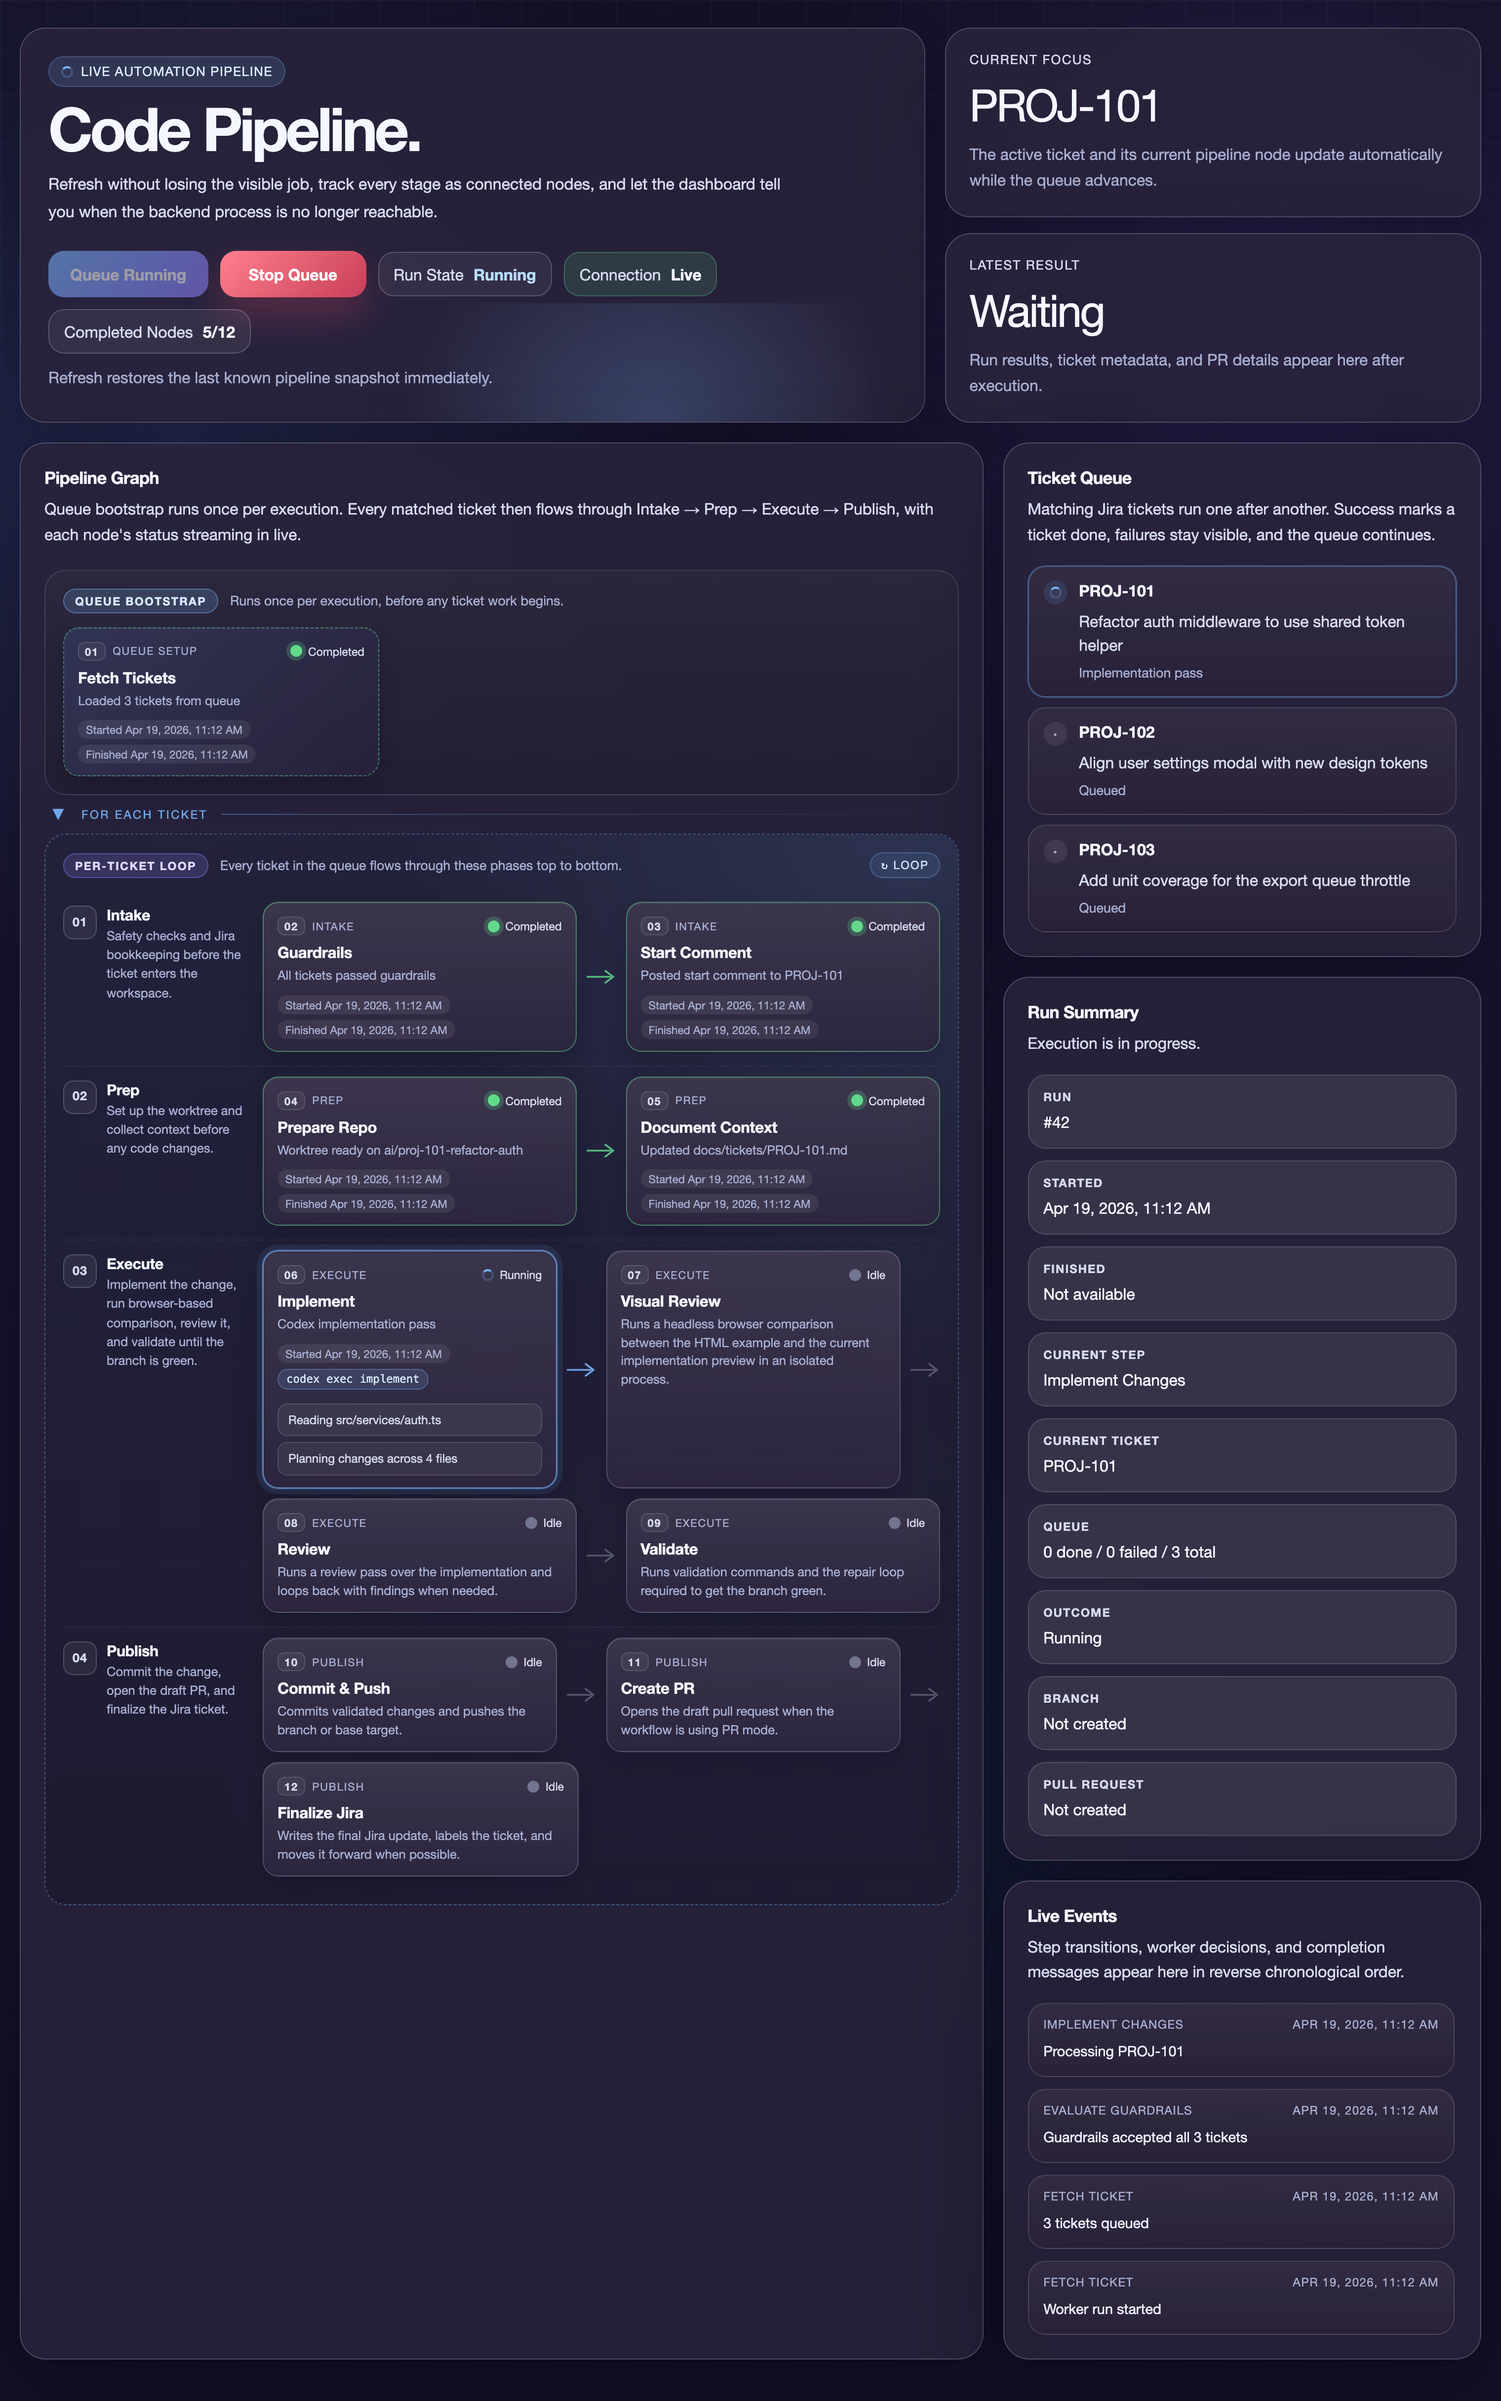
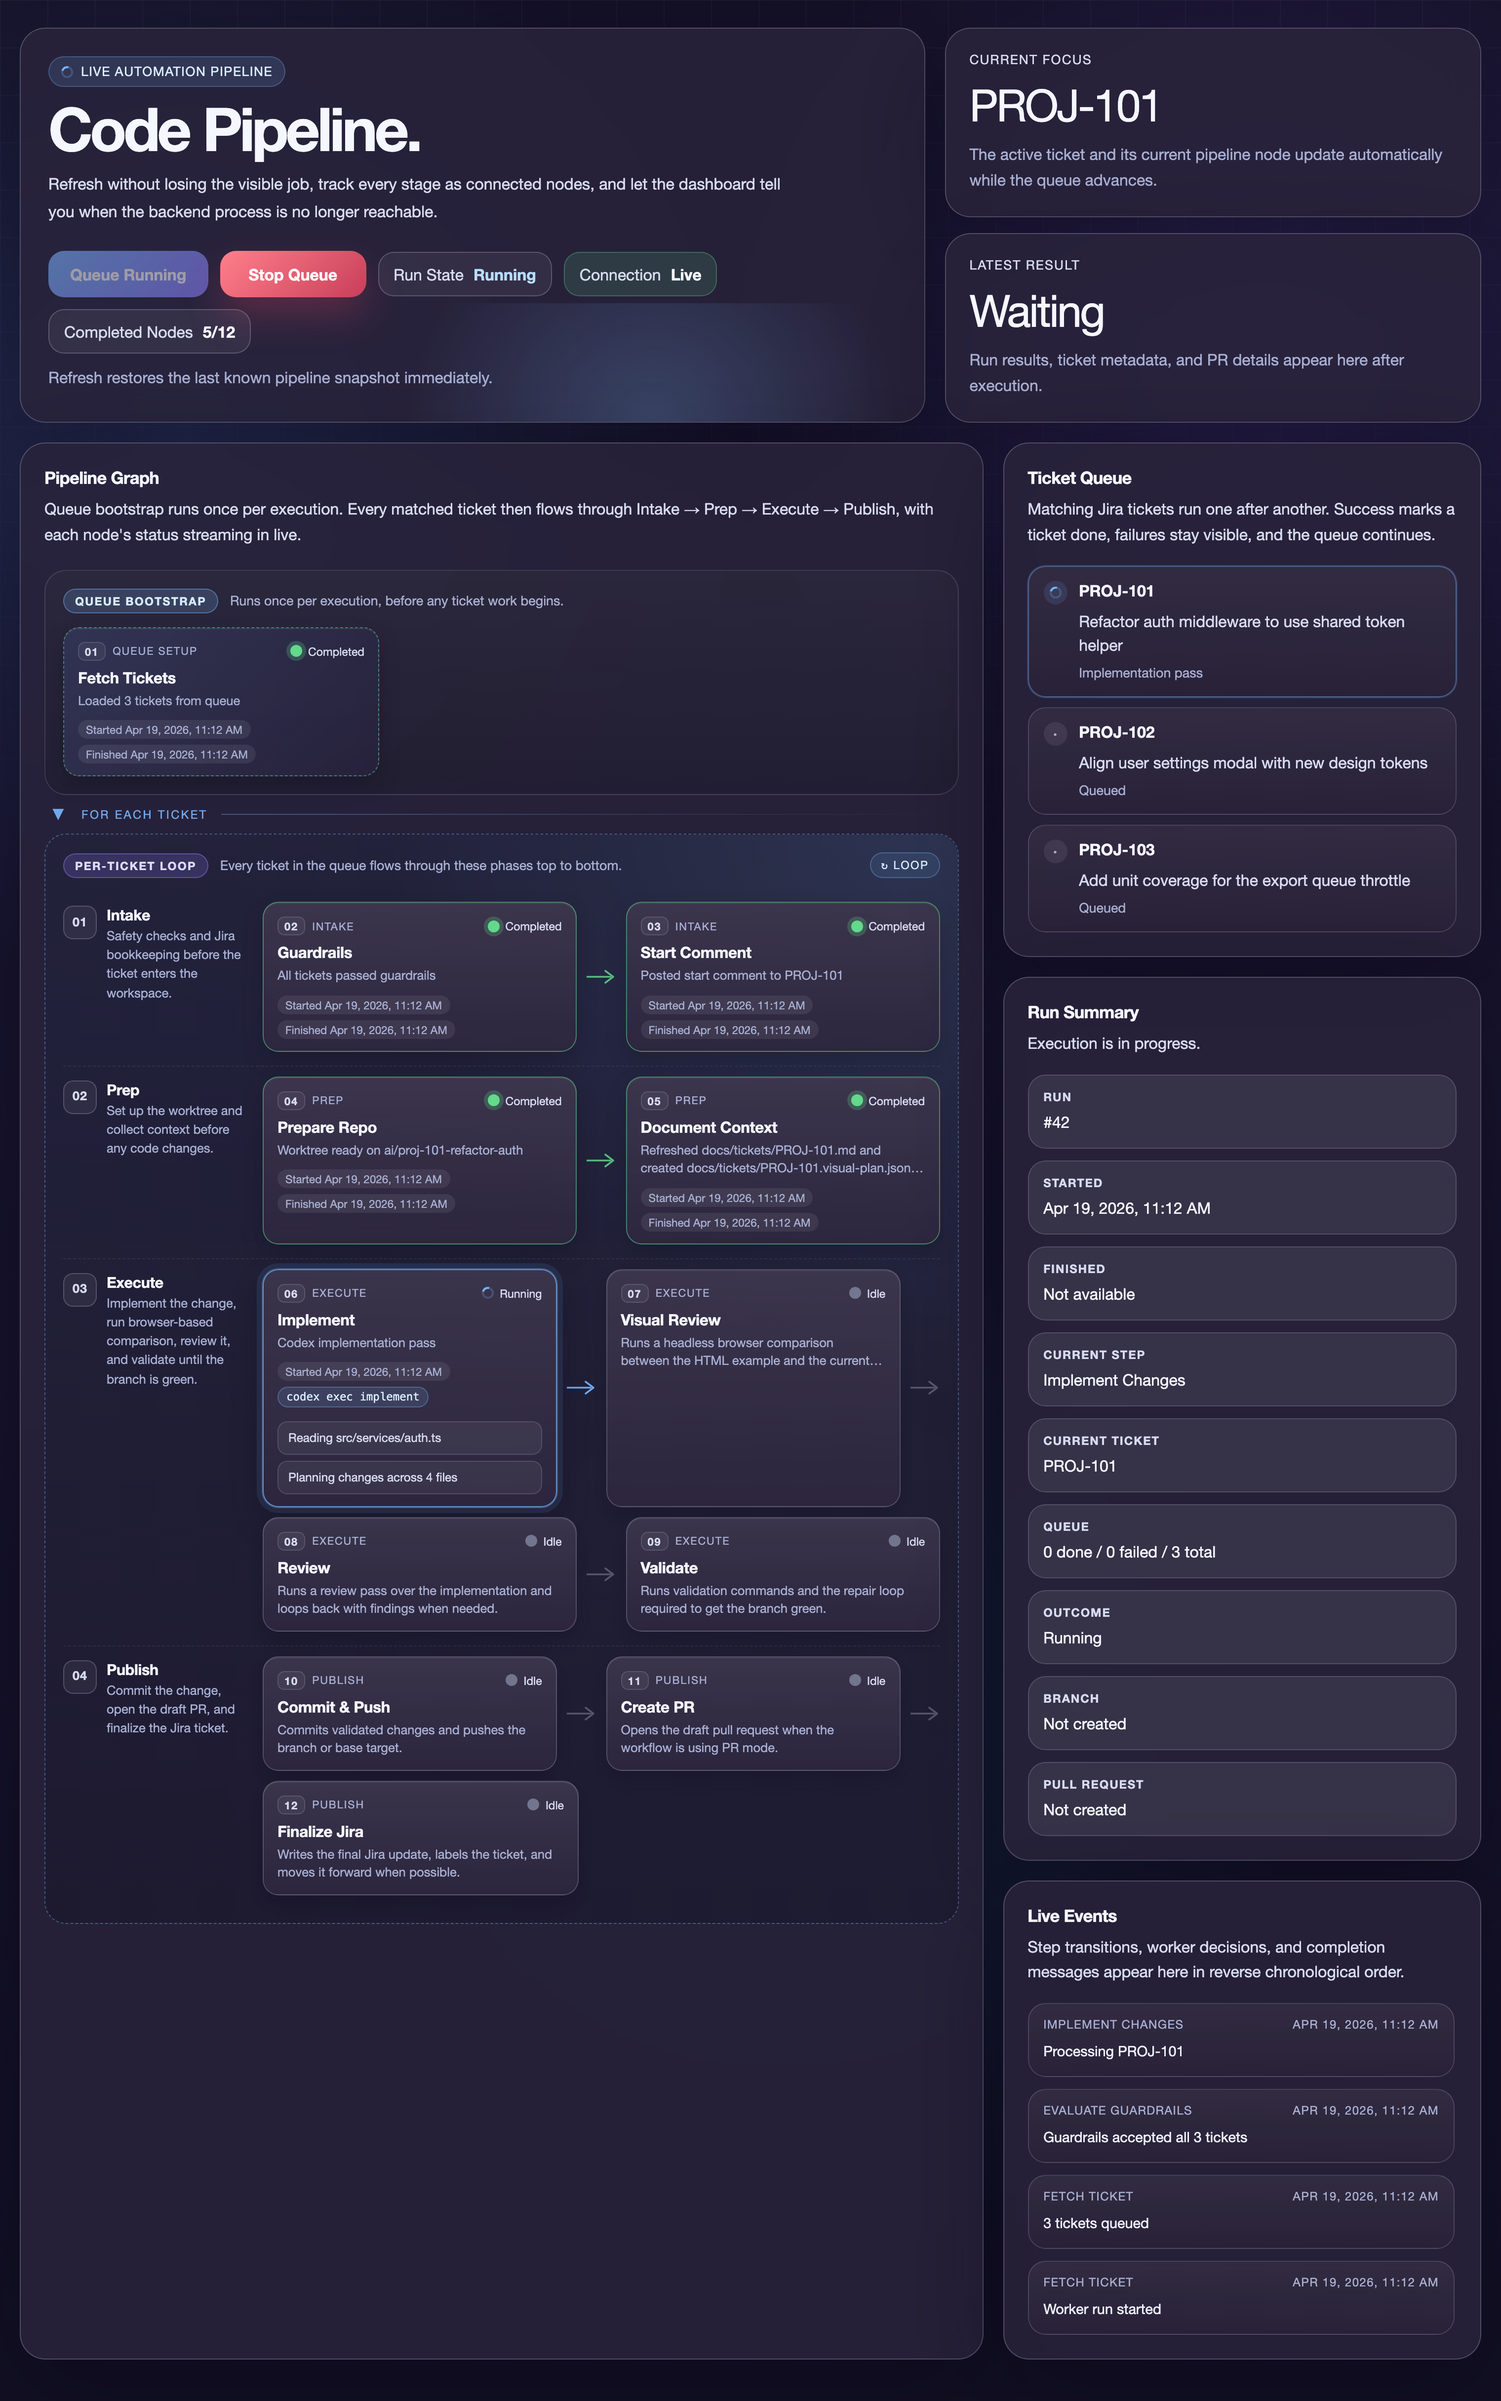
Clamp pipeline node and ticket detail text to prevent overflow
Long step details (notably the Document Context summary) were
spilling beyond pipeline cards. Detail text is now whitespace-
normalized and truncated with a tooltip carrying the full value.

Changed region(s): [[0.0625, 0.4969, 0.625, 0.7764], [0.4062, 0.4659, 0.5938, 0.5901], [0.0625, 0.528, 0.1562, 0.5901]]

diff --git a/src/ui.ts b/src/ui.ts
@@ -577,6 +577,11 @@ const appHtmlTemplate = `<!DOCTYPE html>
         color: var(--subtle);
         font-size: 0.8rem;
         line-height: 1.45;
+        display: -webkit-box;
+        -webkit-line-clamp: 2;
+        -webkit-box-orient: vertical;
+        overflow: hidden;
+        overflow-wrap: anywhere;
       }
 
       .pipeline-node-pills {
@@ -623,7 +628,9 @@ const appHtmlTemplate = `<!DOCTYPE html>
         color: var(--muted);
         font-size: 0.76rem;
         line-height: 1.45;
-        word-break: break-word;
+        white-space: nowrap;
+        overflow: hidden;
+        text-overflow: ellipsis;
       }
 
       .indicator {
@@ -847,6 +854,11 @@ const appHtmlTemplate = `<!DOCTYPE html>
         color: var(--subtle);
         font-size: 0.84rem;
         line-height: 1.5;
+        display: -webkit-box;
+        -webkit-line-clamp: 2;
+        -webkit-box-orient: vertical;
+        overflow: hidden;
+        overflow-wrap: anywhere;
       }
 
       .status-accent {
@@ -1032,6 +1044,18 @@ const appHtmlTemplate = `<!DOCTYPE html>
         return value.replace(/_/g, " ").replace(/\\b\\w/g, function (match) {
           return match.toUpperCase();
         });
+      }
+
+      function shortDetail(value, limit) {
+        if (!value) {
+          return "";
+        }
+        const oneLine = value.replace(/\\s+/g, " ").trim();
+        const max = typeof limit === "number" ? limit : 120;
+        if (oneLine.length <= max) {
+          return oneLine;
+        }
+        return oneLine.slice(0, Math.max(0, max - 1)).trimEnd() + "\u2026";
       }
 
       function formatTime(value) {
@@ -1443,7 +1467,7 @@ const appHtmlTemplate = `<!DOCTYPE html>
               </div>
             </div>
             <h4 className="pipeline-node-title">{step.label}</h4>
-            <p className="pipeline-node-detail">{step.detail || meta.helper}</p>
+            <p className="pipeline-node-detail" title={step.detail || meta.helper}>{shortDetail(step.detail || meta.helper, 120)}</p>
             {(step.startedAt || step.finishedAt || step.currentCommand) ? (
               <div className="pipeline-node-pills">
                 {step.startedAt ? <span className="pipeline-pill">Started {formatTime(step.startedAt)}</span> : null}
@@ -1454,7 +1478,7 @@ const appHtmlTemplate = `<!DOCTYPE html>
             {step.output && step.output.length ? (
               <ul className="pipeline-node-output">
                 {step.output.slice(0, 2).map(function (line, outputIndex) {
-                  return <li key={step.id + "-output-" + outputIndex}>{line}</li>;
+                  return <li key={step.id + "-output-" + outputIndex} title={line}>{shortDetail(line, 80)}</li>;
                 })}
               </ul>
             ) : null}
@@ -1597,8 +1621,8 @@ const appHtmlTemplate = `<!DOCTYPE html>
                       </a>
                       <span className="ticket-summary">{ticket.summary}</span>
                     </div>
-                    <div className="ticket-detail">
-                      {ticket.detail || prettyStatus(ticket.status)}
+                    <div className="ticket-detail" title={ticket.detail || prettyStatus(ticket.status)}>
+                      {shortDetail(ticket.detail || prettyStatus(ticket.status), 140)}
                     </div>
                   </div>
                 </div>

diff --git a/scripts/capture-dashboard.ts b/scripts/capture-dashboard.ts
@@ -70,7 +70,11 @@ function buildMockSnapshot(): WorkerRunSnapshot {
       status: "completed",
       detail: "Worktree ready on ai/proj-101-refactor-auth"
     },
-    document_context: { status: "completed", detail: "Updated docs/tickets/PROJ-101.md" },
+    document_context: {
+      status: "completed",
+      detail:
+        "Refreshed docs/tickets/PROJ-101.md and created docs/tickets/PROJ-101.visual-plan.json. The markdown now captures the ticket summary and acceptance criteria, the human comment and local Jira assets, the matching repo surfaces, a phased implementation plan, and the remaining risks and open decisions."
+    },
     implement_changes: {
       status: "running",
       detail: "Codex implementation pass",
